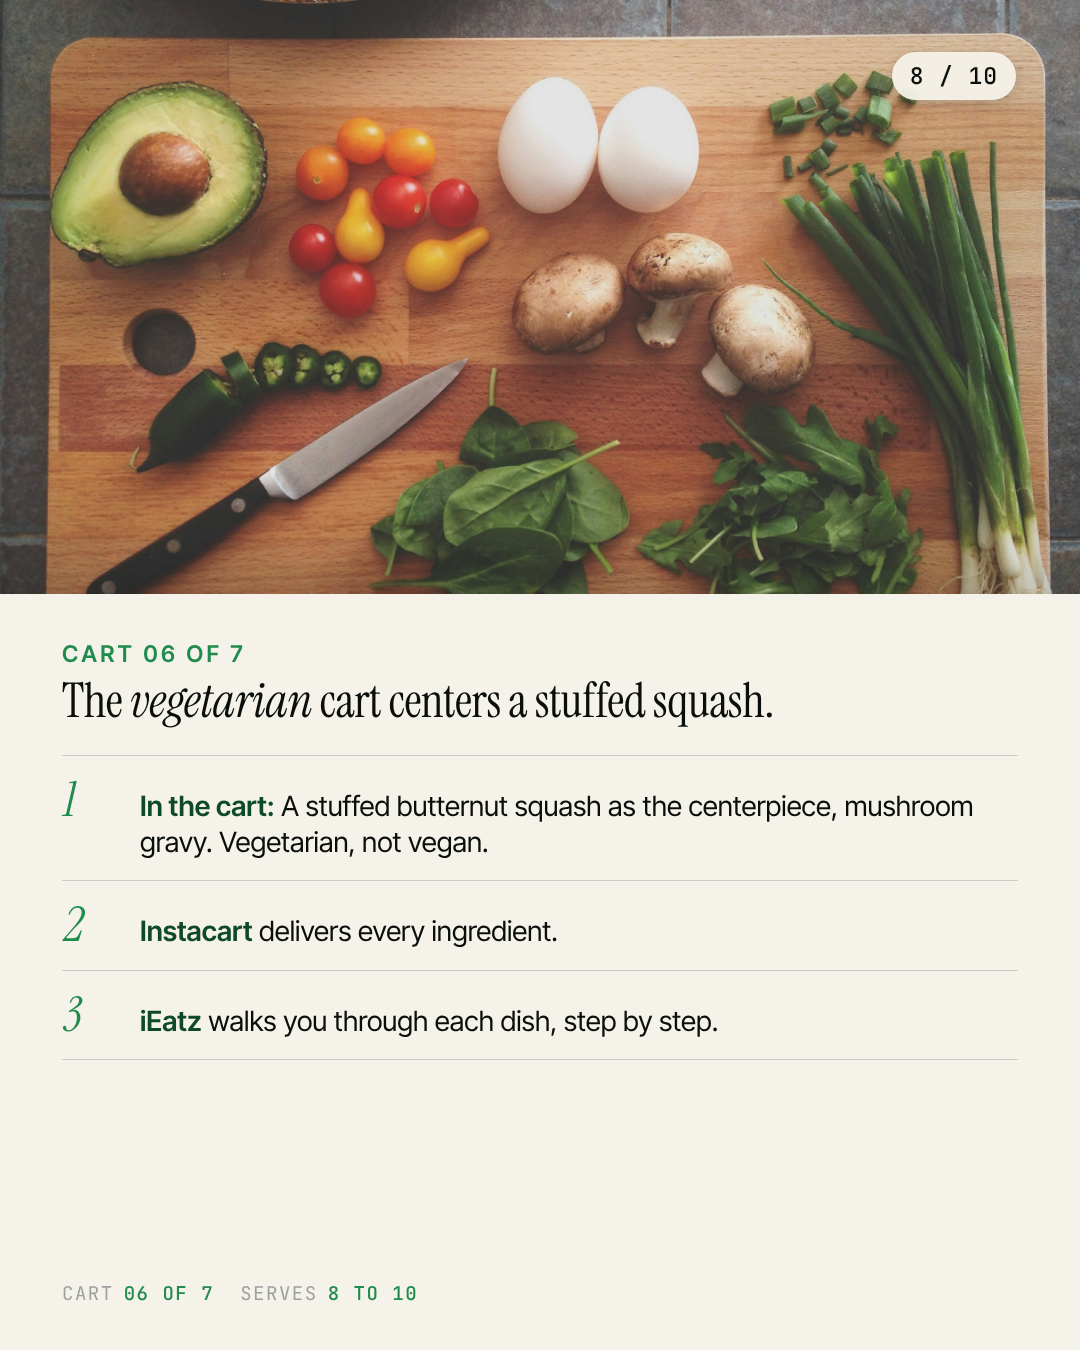
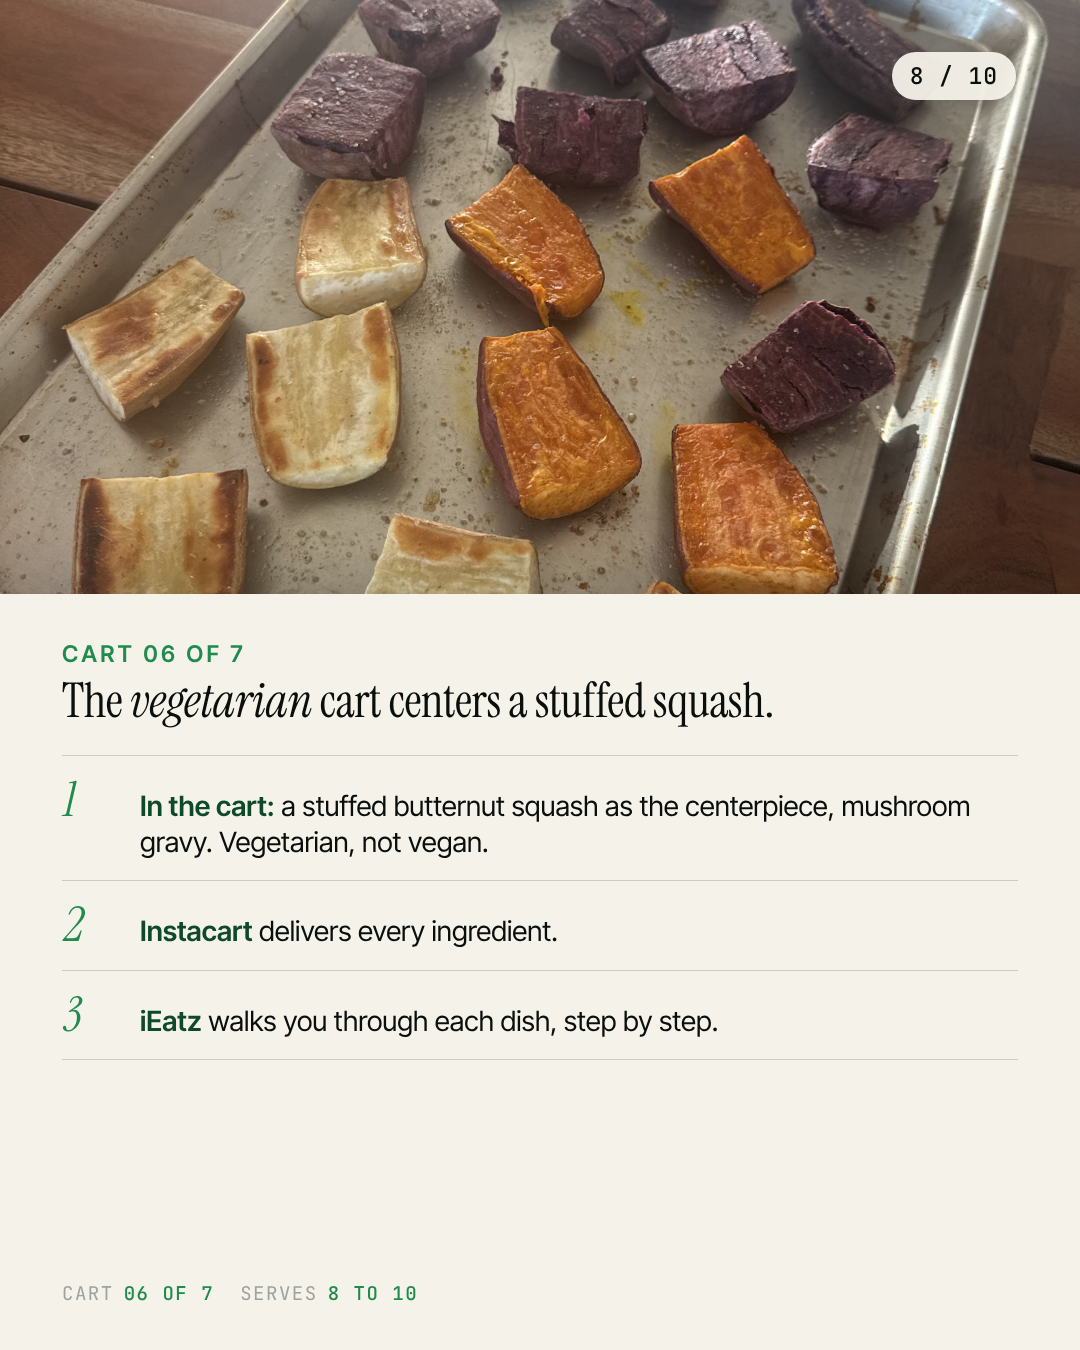
F-022: a mark points at what it names; campaign photo pools; P10 on the pie, P6 on the squash
The banana pin ("the whole dinner" circled round bananas) passed every
gate. The copy gate now requires a markClaim on any labelled mark and
checks it against the photo; the diversity gate honours a per-batch
photoPool. P10 moves to the pie table with the pie circled (pie is in
cart B1). P6 and the vegetarian carousel slide go back to the own
roasted squash tray. Rule and log written.

Claude-Session: https://claude.ai/code/session_01SEXMii8xsuirye9oSfTXZw

diff --git a/social/render/copy-gate.js b/social/render/copy-gate.js
@@ -98,6 +98,18 @@ function check(loaded) {
       const bad = sentenceCase(h);
       if (bad.length) fails.push(`${p.id}: sentence case in ${field}: "${strip(h)}" capitalises ${bad.map(b => `"${b}"`).join(', ')} (not a sentence start or on copy-allowlist.txt)`);
     }
+    // 5b (F-022, Nov 19 2026): a pen mark, circle or arrow has a referent. Every punchline/sharpie
+    //     unit that carries a label needs a markClaim saying, literally, what sits inside the mark
+    //     ("a bunch of bananas"), and the label has to be true of that thing. The banana pin: a circle
+    //     round bananas labelled "the whole dinner" passed every gate because no gate asked.
+    for (const u of (r.slides ? r.slides.map((s, i) => ({ id: `${p.id} slide ${i + 1}`, r: s })) : [{ id: p.id, r }])) {
+      const x = u.r || {};
+      const labels = [].concat(x.label ? [x.label.text] : [], (x.marks || []).map(m => m.label).filter(Boolean));
+      if (!labels.length) continue;
+      if (!x.markClaim) { fails.push(`${u.id}: a marker label (${labels.map(l => `"${l}"`).join(', ')}) with no markClaim (say literally what the mark surrounds; F-022)`); continue; }
+      const mc = nouns(x.markClaim), pc = nouns(x.photoClaim || '');
+      if (!mc.some(n => pc.includes(n))) fails.push(`${u.id}: markClaim "${x.markClaim}" names nothing that is in photoClaim (F-022)`);
+    }
     // 5: photoClaim required and grounded in the copy, per photo-bearing unit (post or slide)
     const units = r.slides ? r.slides.map((s, i) => ({ id: `${p.id} slide ${i + 1}`, r: s, head: headlineOf(s) })) : [{ id: p.id, r, head: headlineOf(r) }];
     for (const u of units) {

diff --git a/social/render/diversity-gate.js b/social/render/diversity-gate.js
@@ -134,6 +134,10 @@ function gate(file, opts = {}) {
       const day = p.dueAt.slice(0, 10);
       const photos = photosOfPost(p.render);
       if (!photos.length) return;
+      // F-022: a campaign batch can pin its photo pool ("thanksgiving/", "own/..."); anything outside it fails.
+      const pool = (loaded.batch && loaded.batch.photoPool) || null;
+      if (pool && pool.length) for (const f of photos) if (!pool.some(pre => f.startsWith(pre))) fails.push(`${channel}: ${p.id} uses ${f}, outside the batch photoPool [${pool.join(', ')}] (F-022)`);
+
       let sup; try { sup = supply(day); } catch (e) { warns.push(`photo supply check skipped: ${e.message}`); return; }
       const tier = Object.fromEntries(sup.rows.map(r => [r.file, r]));
       const ownFree = (sup.by.own || []).length;

diff --git a/social/feedback/RULES.md b/social/feedback/RULES.md
@@ -511,3 +511,34 @@ _Rules replaced by a newer rule, kept with the date and the id that replaced the
   > audience cannot vote", so every reel is a test against strangers.
   > Enforced by: diversity-gate.js rule 7 (a reel due from 2026-11-02 with no `track` fails);
   > TRIAL-REELS.md and the Slack alert template for the manual steps; this file for the cut.
+
+### F-022 · 2026-11-19 · A mark points at the thing it names, and a holiday set stays on holiday food
+
+**What happened.** The first Thanksgiving set (Nov 19) shipped to Buffer with a pin that circled a bunch of
+bananas in a grocery bag and labelled them "the whole dinner", a frame that circled a wedge of cheese under
+"nobody roasted a bird" and then sold a turkey breast, and a THANKFUL frame carrying three unrelated gags
+(the store, the uncle, the butter). Every one of them passed the copy gate, the diversity gate and a
+written Creative QA "read". Travis caught all three in Buffer. His words: "the whole dinner is a couple
+of bananas??? furthest thing from Thanksgiving."
+
+**Why the system let it through.** The gates checked photo nouns against copy nouns, headline length and
+layout variety. Nothing asked whether the pen mark sat on the thing the label named, whether the photo
+belonged to the occasion, or whether the headline, the marker note and the card told one story. The
+"read" line in `qa` was written by the same hand that cut the frame, without looking.
+
+**The rule.**
+1. A circle, arrow or marker label has a referent. The label must be literally true of what sits inside
+   the mark. The render batch carries `markClaim` (what the mark surrounds, plainly) next to `photoClaim`;
+   the copy gate fails a labelled mark with no `markClaim`, or one that names nothing in the photo.
+2. A campaign batch declares `photoPool` (path prefixes). The diversity gate fails any post whose photo is
+   outside the pool. For a holiday set the pool is holiday food and holiday tables. A grocery bag, a
+   vegetable board or a sneaker in a fridge is not Thanksgiving, whatever the caption says.
+3. One frame, one story. Headline, marker note and card have to be three beats of the same idea
+   (before and after, setup and payoff, claim and proof). If the marker note could be deleted without
+   anyone noticing, delete it. If it contradicts the card, the frame is wrong, not the note.
+4. The Creative QA `read` is written as what a stranger sees in two seconds, in their words, and if that
+   sentence is not the message, the frame goes back. "a circle round some bananas that says the whole
+   dinner" would have failed this frame in one line.
+5. Humor rides on a true observation about the occasion (the uncle, mom's review, the person who still
+   has not bought butter). It never rides on the product mechanic and never asks the photo to be
+   something it is not.

diff --git a/social/feedback/LOG.md b/social/feedback/LOG.md
@@ -125,3 +125,13 @@ One entry per note or idea, newest last. Format:
 
 - 2026-11-05 · Travis · "one final cookbook concept. a humor angle: 'Tired of Cooking that Tastes like a shoe?' ... use a layout that would perform well ... OR use html to build something completely novel that still respects the design system" + an image of a sneaker on a fridge shelf → o08-ig on a new `punchline` shell (templates.js/base.css): the question on a dark scrim, the shoe ringed in tomato marker with "tonight's dinner", the answer on a taped paper card ("Comment COOKBOOK. We'll DM you 30 dinners that taste like actual food.", FREE tag, badge). Creative QA 2 rounds (card cut the ring; "send" → "DM"). The image is AI-generated: logged in photos.json as source `ai`, and the diversity gate now treats every non-own source as stock (F-008). Buffer draft Fri Nov 6 09:45 PT, one of three concepts for the $20 boost.
 - 2026-11-07 · Travis · "one non-follower sent a COOKBOOK comment - but the automation didn't fire. is it bc they weren't a follower?" → no: ManyChat comment triggers fire for non-followers. Most likely cause: o08-ig went live Thu Nov 5 11:15 PT as a new post, and a ManyChat trigger set to "specific post" only covers posts picked in it. Sent Travis the ManyChat checks (contact search, trigger post scope, keyword match, live status) and the manual DM for the missed commenter. Ledger o08-ig → sent.
+
+## 2026-11-19 · Thanksgiving carts, Phase 1 (Travis, live review in Buffer, 16:40 to 18:40 PT)
+- Set rebuilt three times in one evening: v2 (the mechanic on every frame: pick a dinner, every ingredient
+  arrives, iEatz walks you through each dish), v3 (his 14-photo Thanksgiving set, humor on half), v4 (the
+  photo on every carousel slide, the pregame/dinner bridge on I2, one joke on I4, the pie table on P10).
+- Misses he caught, in order: white type over bright food; the same own photos repeating; "a cart" sold
+  instead of the dinner; "for less money" (same store price); "wait that's the whole thing?" reads as AI
+  copy; a circle on cheese under "nobody roasted a bird" next to a turkey-breast card; three unrelated
+  gags on the THANKFUL frame; bananas circled as "the whole dinner". F-022 written from the last three.
+- P2 and I3 were published by hand at 17:02 and 17:06 PT; go-live pings posted in #social at his request.
